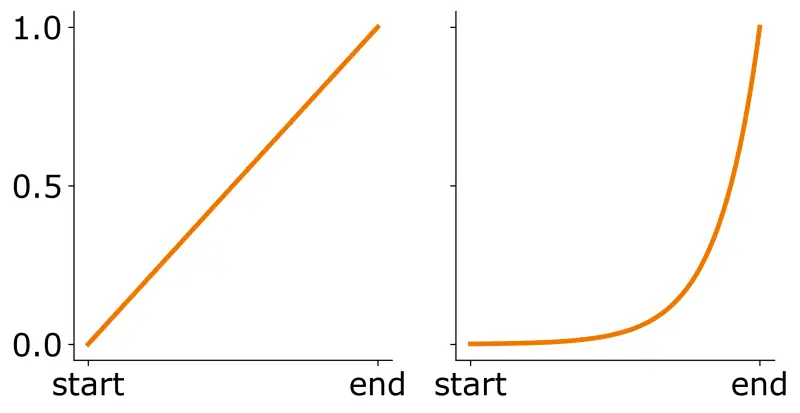
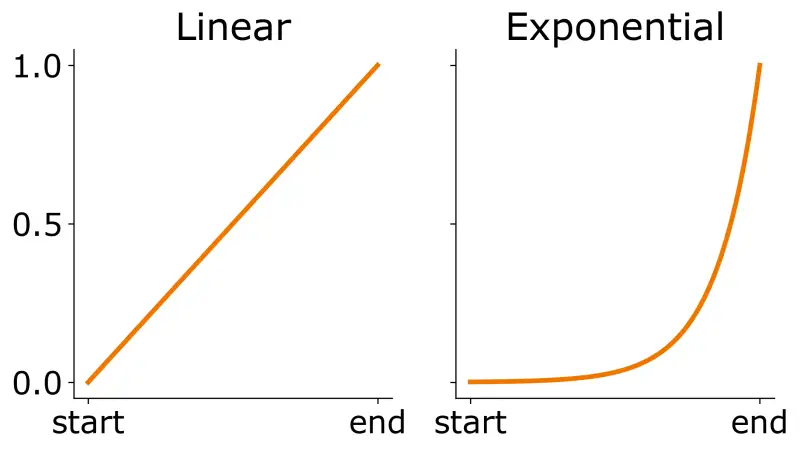
Posts: Envelopes.

diff --git a/_py/posts/synthesis/2022-07-03-envelopes/linear_vs_exponential.py b/_py/posts/synthesis/2022-07-03-envelopes/linear_vs_exponential.py
@@ -28,7 +28,9 @@ def main():
 
     fig, ax = plt.subplots(1, 2, sharey=True, figsize=(8,4))
     ax[0].plot(linear_envelope, color, linewidth=3)
+    ax[0].set_title('Linear')
     ax[1].plot(exponential_envelope, color, linewidth=3)
+    ax[1].set_title('Exponential')
     for a in ax:
         a.set_xticks([0, linear_envelope.shape[0] - 1], ['start', 'end'])
         a.spines['top'].set_visible(False)

diff --git a/_posts/synthesis/2022-07-03-envelopes.md b/_posts/synthesis/2022-07-03-envelopes.md
@@ -150,8 +150,30 @@ The following is a comprehensive (to my best knowledge) list of envelope segment
 
 A very important consideration when implementing any envelope is how its value should change.
 
-For example, should the amplitude increase linearly or exponentially (linearly on the logarithmic scale)?
+To be exact, should the amplitude increase linearly or exponentially (linearly on the logarithmic scale)? Below is a comparison of these two approaches:
 
+![]({{ page.images | absolute_url | append: "linear_vs_exponential.webp" }}){: alt="" }
+_Figure {% increment figureId20220703  %}. ._
+
+The caveat here is that we perceive the exponential change as a linear one. To hear this, listen to these two examples.
+
+Each one plays a sine at 220 Hz.
+
+This one has the linear attack envelope (left in Figure ???).
+
+{% include embed-audio.html src="assets/wav/posts/synthesis/2022-07-03-envelopes/linear.flac" %}
+
+This one has the exponential attack envelope (right in Figure ???).
+
+{% include embed-audio.html src="assets/wav/posts/synthesis/2022-07-03-envelopes/exponential.flac" %}
+
+Which change sounds more "linearly" to you?
+
+For me, the exponential envelope.
+
+In the linear envelope case, I can hear the sound instantaneously and then it becomes kind of louder whereas in the exponential case, I can hear a steady increase in volume.
+
+After learning the building blocks of envelopes, now it is time to see what types of envelope are out there.
 
 ## The Catalog of Envelopes
 
